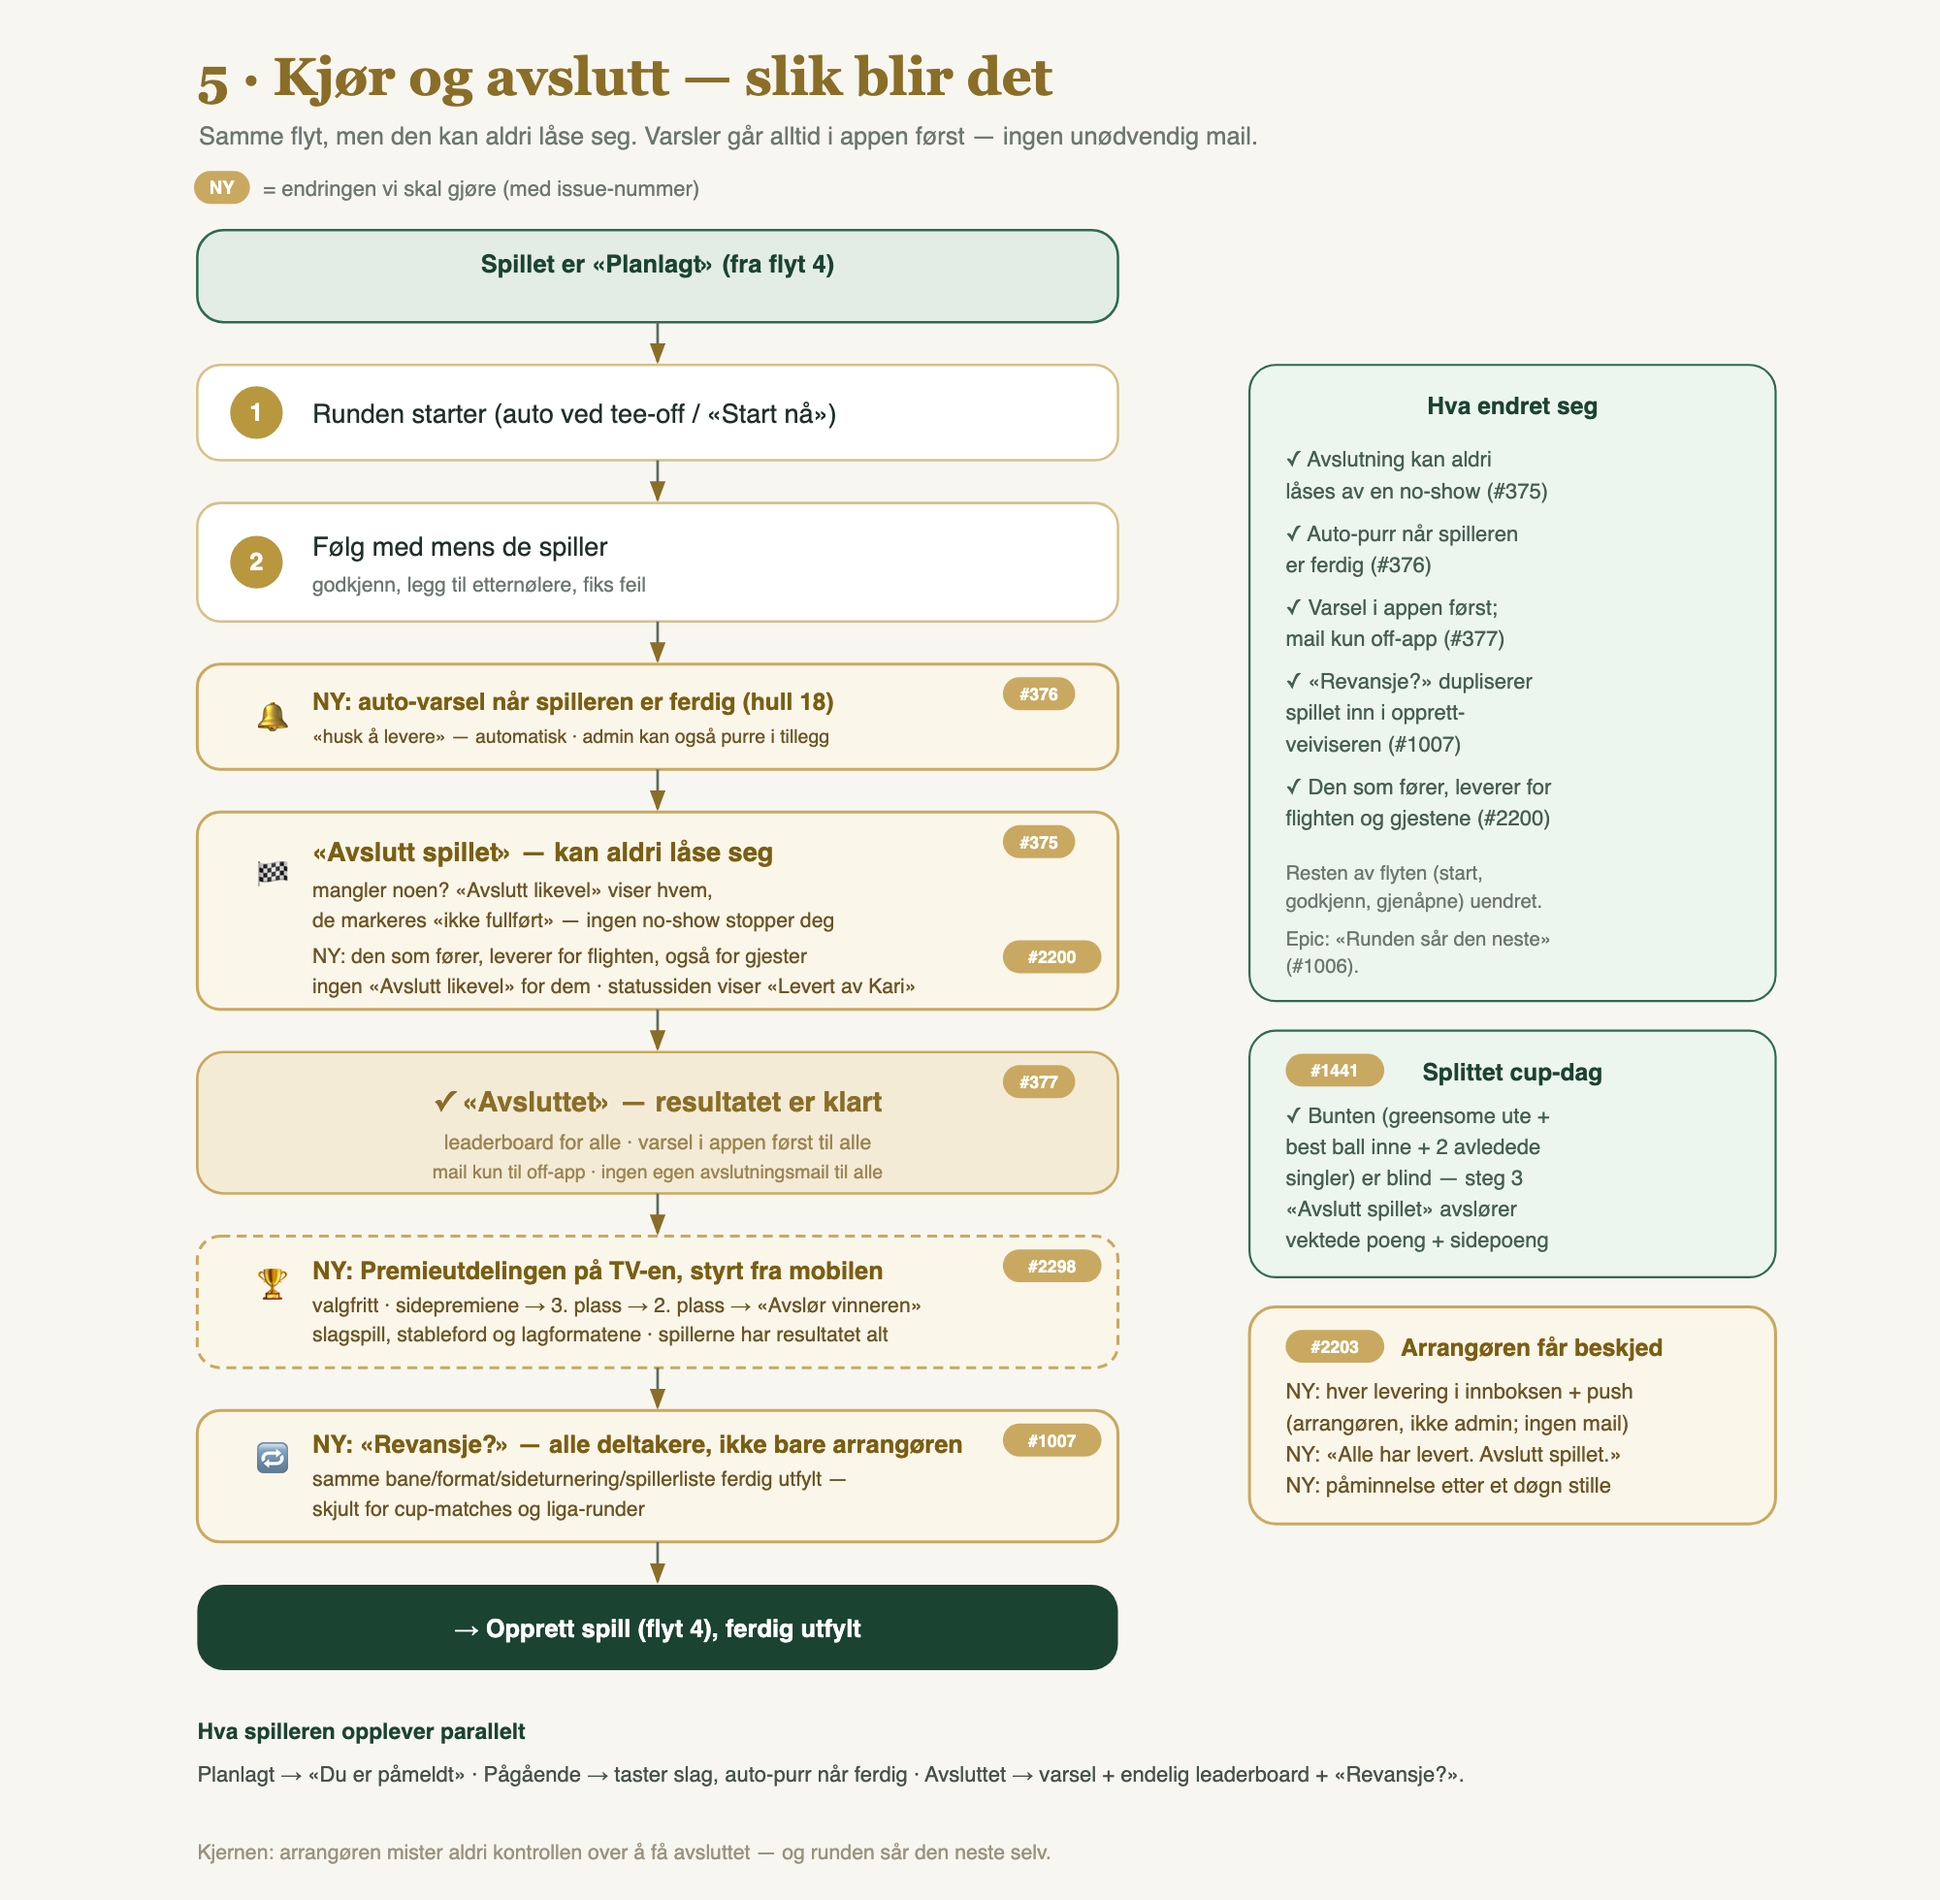
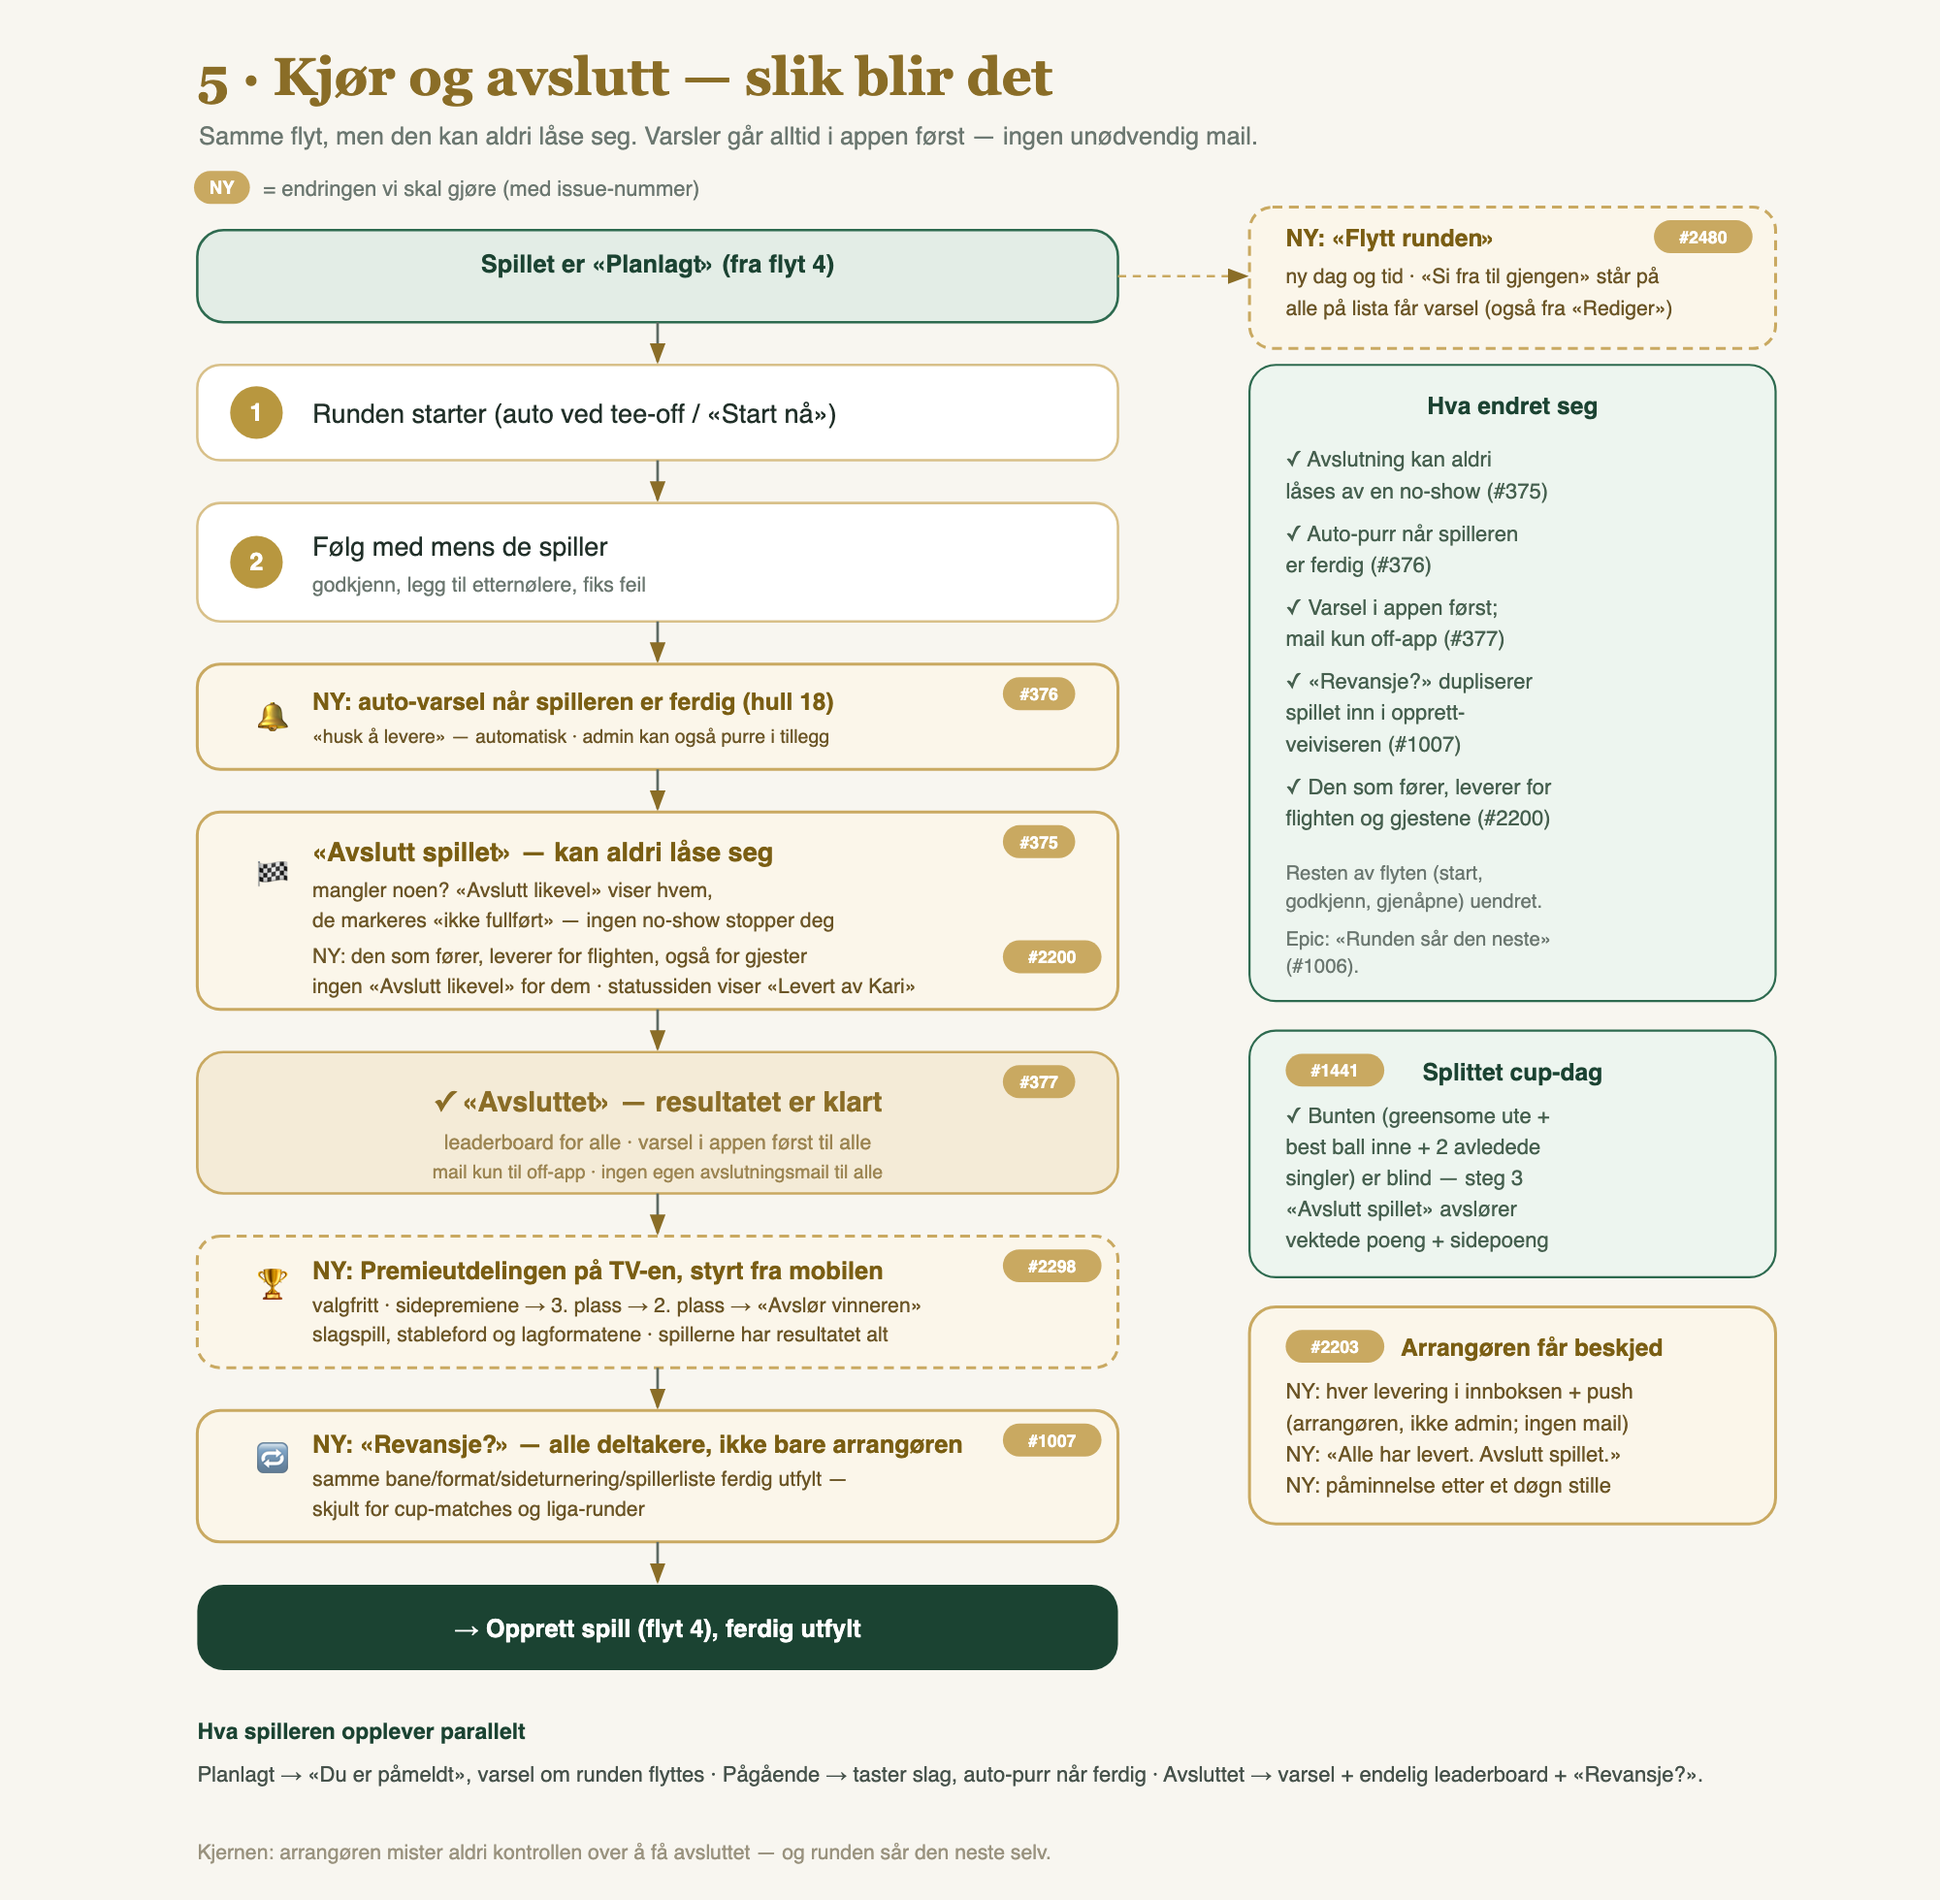
docs(flows): «Flytt runden» on a scheduled game in flow 5
Flow 5's future diagram gets the move as a choice beside «Planlagt», and
the player's line says they hear when the round moves. docs/user-flows.md
gets the line under A2. PNG regenerated (the other flows' PNGs the script
re-rendered are left as they were: byte drift only).

Refs #2480

Changed region(s): [[0.62, 0.0934, 0.899, 0.1868], [0.248, 0.9342, 0.279, 0.9653]]

diff --git a/docs/user-flows.md b/docs/user-flows.md
@@ -261,6 +261,7 @@ Publiserer en arrangør som ikke er admin uten å stå på lista selv, lander he
 - **Avslutt** (`endGame`): krever alle levert (+ godkjent hvis peer). Arrangøren får beskjed når det er klart: «Alle har levert» etter siste levering, godkjenning eller tilbaketrekking, én gang per spill, og ikke når hen gjorde det selv. Har et aktivt spill stått stille et døgn (ingen slag, leveringer, godkjenninger eller tilbaketrekkinger), får hen én påminnelse (`game_stale_reminder`, sveipen `POST /api/cron/stale-game-reminder`, pg_cron fra 0205). Cupkamper og avledede spill er utenfor begge. Spillet avslutter seg aldri selv (#2203). En gjest kan ikke levere selv, men den som fører kortet, leverer det (#2200), så gjester trenger ikke lenger «Avslutt likevel». Side-turnering → `/admin/games/[id]/avslutt` (velg LD/CTP-vinnere). `→ finished` + `gameFinishedNotification` (Resend, off-app). `reopenGame` reverserer; kortene står fortsatt som levert, admin åpner dem som skal rettes (#2213).
 - **Premieutdelingen** (valgfri, etter «Avslutt», #2298): på et avsluttet spill i slagspill, stableford eller et lagformat med pall har arrangøren «Premieutdelingen →» på spillets side og under «Resultat» i Sekretariatet (`/games/[id]/premieutdeling`). Siden har lenken til storskjermen og én knapp som snur neste kort på TV-en: sidepremiene, 3. plass, 2. plass og «Avslør vinneren», med «Ett steg tilbake», «Start på nytt» og «Lukk». Steget står i `games.ceremony_step`, og TV-en spør etter det hvert 2. sekund. Spillerne har resultatet i appen fra «Avslutt» som før; et gjenåpnet spill starter uten seremoni.
 - **Påminn om hull uten slag** (pulten, #2268): «Påminn» på en hull-rad i «Trenger deg» sender spilleren varselet «Du mangler slag på hull H» (i innboksen, og som push og på e-post når spilleren ikke er i appen; lenke til hullet; varseltypen `missing_score_reminder`, 0203). Som leveringspåminnelsen kan arrangøren purre på nytt (#1891).
+- **Flytt runden** (planlagt spill, #2480): «Flytt runden →» på spillets side for arrangøren og fra «Rediger spill» i Sekretariatet (`/games/[id]/flytt`, `requireAdminOrCreator`). Ny dag og tid med hurtigvalg; «Si fra til gjengen» står på og gir hver aktive spiller på lista (ikke gjester, ikke den som flytter; arrangøren når en admin flytter) ett varsel i innboksen og som push, e-post når spilleren ikke er i appen (`game_moved`, 0226). Endres tee-off i «Rediger» › «Navn og tid», får arrangøren samme spørsmål. Autostart og kalenderfila følger den nye tiden.
 - **Rediger** (`/admin/games/[id]/edit`; arrangøren `/games/[id]/rediger`). Et utkast gjenopptas i veiviseren på begge, med samme regel (`loadDraftResume`), og feil lander på «Klar?». Planlagte spill og cup- og ligakoblede utkast har skjemaet (#2269). Et planlagt spill åpnes på en oversikt, og hver del åpnes for seg (`?del=`, #2322). **Slett** (`/admin/games/[id]/slett`, **dedikert side**, status-bevisst advarsel).
 
 ### A3 — Baner, spillere, cup, formater
